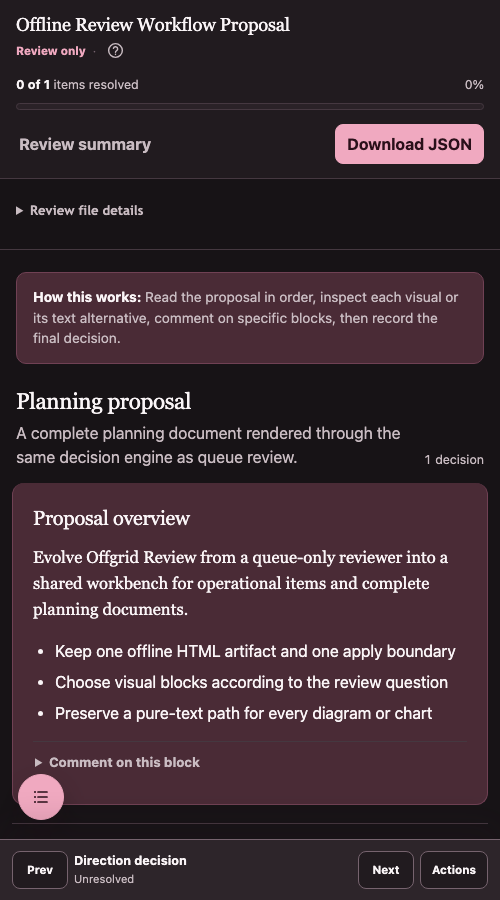
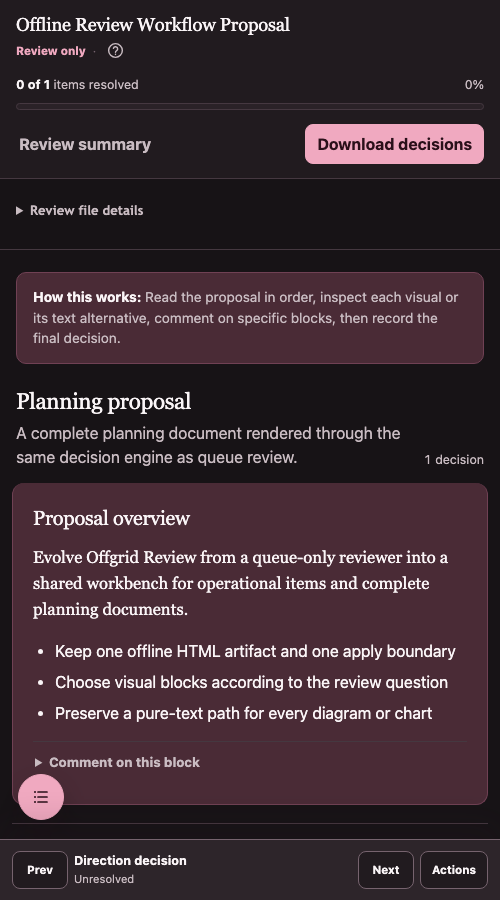
docs: prepare 0.1.0 release guidance
Update the public workflow, compatibility and privacy notes, licensing summary, development commands, release notes, and generated interface screenshots for the hardened candidate.

Changed region(s): [[0.6, 0.1244, 0.93, 0.1867]]

diff --git a/README.md b/README.md
@@ -41,8 +41,7 @@ the review begins.
 ## Quick start
 
 With [uv](https://docs.astral.sh/uv/getting-started/installation/) installed,
-run the command without managing a Python environment. Until the first PyPI
-release, UVX can build it directly from the public repository:
+run the current release candidate directly from the public repository:
 
 ```bash
 uvx --from git+https://github.com/jd-santos/offgrid-review.git offgrid-review \
@@ -51,13 +50,16 @@ uvx --from git+https://github.com/jd-santos/offgrid-review.git offgrid-review \
   --out review.html
 ```
 
-Open `review.html` in a browser. Select one or more compatible actions, add
-notes where needed, and use **Download JSON** to export the result.
+This Git-source command is temporary while `0.1.0` is prepared. After the PyPI
+release, use `uvx offgrid-review@0.1.0` instead.
 
-Offgrid Review supports Python 3.10 or later and has no third-party runtime
-dependencies. PyPI will distribute the first tagged package; UVX is the
-recommended runner, not a package dependency. After the first PyPI release, the invocation shortens to `uvx offgrid-review`.
-A persistent installation will also be available:
+Open `review.html` in a browser. Select one or more compatible actions, add
+notes where needed, and use **Download decisions** to export the JSON result.
+
+Offgrid Review supports Python 3.10 or later, is tested on macOS and Linux, and
+has no third-party runtime dependencies. Native Windows is not supported; use
+WSL when needed. UVX is the recommended runner, not a package dependency. A
+persistent installation is also available:
 
 ```bash
 uv tool install offgrid-review
@@ -116,6 +118,10 @@ The data, review specification, interface, styles, and behavior are embedded in
 one HTML file. It can move through chat, email, shared storage, or removable
 media without bringing an application server with it.
 
+Anyone who receives the HTML or exported decisions can inspect the embedded
+source snapshots, including fields hidden behind disclosures. Do not put
+secrets or unrelated private data into review inputs.
+
 ### Review and apply stay separate
 
 The browser page is a decision-capture surface. It cannot mutate the system
@@ -124,6 +130,10 @@ requires implementations to re-fetch current state, detect stale data, and act
 only on explicitly approved decisions.
 
 ### Structure replaces conversational ambiguity
+
+Each artifact and export carries a schema version, generator version, review
+ID, and deterministic data and specification fingerprints. Browser state is
+loaded only when it belongs to the current artifact.
 
 Actions, risk, reversibility, rationale, conflicts, completion state, and
 annotations remain machine-readable. Compatible actions use multi-select by
@@ -178,17 +188,26 @@ reach the generated page.
 
 ## Roadmap
 
-Near-term work includes recommendation provenance, stale-snapshot handling,
-decision import, accessibility review, and validated `npx skills` installation.
+Near-term work includes recommendation provenance, decision import, apply-pass
+fingerprints, and validated `npx skills` installation.
 See [TODO.md](https://github.com/jd-santos/offgrid-review/blob/main/TODO.md) for the current list.
 
 ## Development
 
-Create the locked development environment and run the regression suite:
+Create the locked development environment and run the Python regression suite:
 
 ```bash
 uv sync --locked
 uv run python -m unittest discover -s tests -p 'test_*.py'
+```
+
+Run the focused browser regressions separately:
+
+```bash
+uv sync --locked --group test
+uv run --group test playwright install chromium
+uv run --group test python -m unittest discover -s tests/browser -p 'test_*.py'
+uv run python scripts/check_runtime_syntax.py
 ```
 
 Build the wheel and source distribution:
@@ -211,4 +230,9 @@ location.
 
 ## License
 
-Offgrid Review is licensed under GPL-3.0-or-later. See [LICENSE](LICENSE).
+The Python generator and package aggregate are licensed under
+[GPL-3.0-or-later](https://github.com/jd-santos/offgrid-review/blob/main/LICENSE).
+The generated HTML runtime, styles, and reusable output templates are licensed
+under [Apache-2.0](https://github.com/jd-santos/offgrid-review/blob/main/LICENSES/Apache-2.0.txt).
+Each portable HTML file carries the Apache license and notice required for
+redistribution.

diff --git a/CHANGELOG.md b/CHANGELOG.md
@@ -9,30 +9,54 @@ This project does not currently declare a Semantic Versioning policy.
 
 ### Added
 
-- Add a dependency-free Python package with the `offgrid-review` command, UVX
-  support, version output, and concise command errors.
-- Add CLI regression coverage and build metadata for wheel and source
-  distributions.
-- Add a public project overview with generated desktop and mobile screenshots.
-- Add a standard-library script for regenerating the screenshot set with Chrome
-  or Chromium.
+- Add the dependency-free `offgrid-review` Python CLI with UVX execution,
+  version output, protected starter-spec generation, and concise command errors.
+- Add queue-based and complete planning-document review with multi-select
+  decisions, explicit single-select questions, granular notes, conflicts,
+  summaries, persistence, and decision JSON export.
+- Add semantic tables, flows, timelines, dependency graphs, charts, constrained
+  SVG, and visible text alternatives.
+- Add schema, generator, review, data, specification, and artifact identity to
+  generated files and decision exports.
+- Add path-aware input validation for IDs, types, references, source paths,
+  collection limits, and reserved export fields.
+- Add focused browser regressions for persistence, regenerated artifacts,
+  hostile raw-text data, mobile document review, focus return, and text reflow.
+- Add generated desktop and mobile screenshots with a standard-library capture
+  script.
 
 ### Changed
 
-- Move the renderer into the importable `offgrid_review` package without
-  changing generated review output.
+- Split validation, identity, queue rendering, document rendering, SVG handling,
+  page assembly, and browser resources into separate package boundaries.
+- Require stable source item IDs and prefer those IDs over mutable paths when
+  constructing decision identities.
+- Scope browser storage to a review ID and load it only when its schema and
+  artifact fingerprint match the current file. Pre-release title-only storage
+  is intentionally not migrated.
+- License the Python generator and aggregate package under GPL-3.0-or-later,
+  while licensing the generated runtime and reusable output templates under
+  Apache-2.0. Generated HTML carries the Apache license and notice.
+- Rename reviewer-facing JSON actions to **Download decisions**, **Copy
+  decisions**, and **Preview decisions** while retaining JSON as the exchange
+  format.
 - Keep the agent skill as the discovery and workflow layer while the published
   CLI owns deterministic execution.
+
+### Fixed
+
+- Prevent decisions from an older artifact from inflating progress or appearing
+  in a regenerated review export.
+- Encode embedded JSON safely for HTML raw-text parsing so source strings such
+  as `<!--<script>` cannot disable the browser runtime.
+- Return focus to the review-summary trigger after closing the panel.
+- Keep planning documents within the viewport at high text scaling.
+- Report malformed data and specifications without exposing Python tracebacks.
 
 ## 2026-08-03
 
 ### Added
 
 - Add the standard-library offline review generator and agent skill.
-- Add queue-based and complete planning-document review workflows.
-- Add multi-select decisions, explicit single-select questions, granular notes,
-  validation, summaries, persistence, and decision JSON export.
-- Add semantic tables, flows, timelines, dependency graphs, charts, constrained
-  SVG, and visible text alternatives.
-- Add responsive desktop and mobile layouts with light and dark themes.
-- Add artifact, usage, apply-pass, product, and design documentation.
+- Add the first review workbench interface, artifact documentation, product
+  contract, and design contract.
